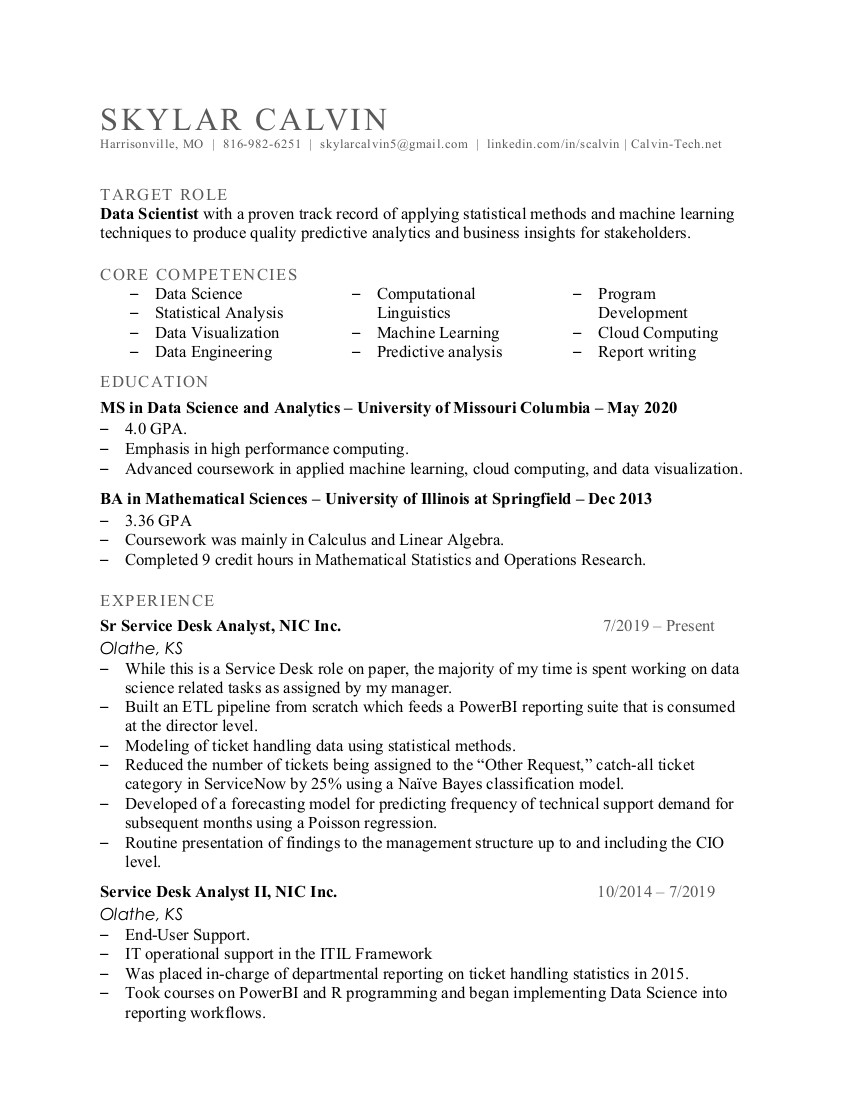
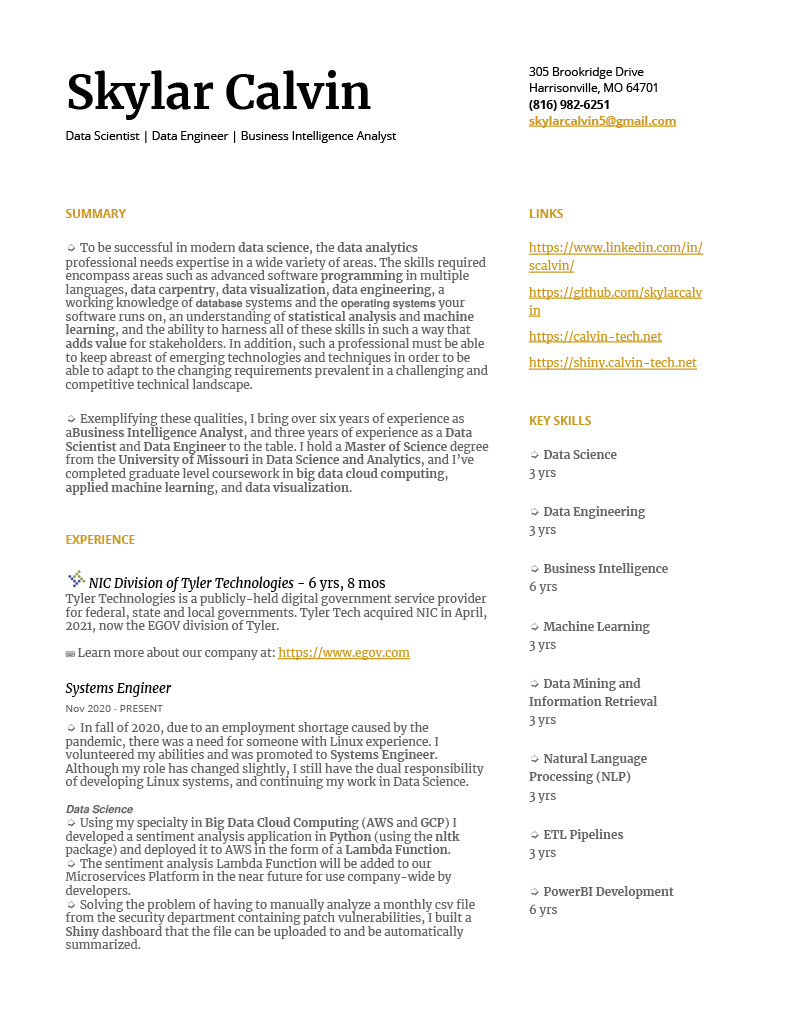
Updated Resume, About Me, and Career sections

Changed region(s): [[0.0606, 0.0625, 0.8788, 0.9375], [0.5758, 0.0625, 0.8485, 0.1562]]

diff --git a/calvinTech/templates/index.html b/calvinTech/templates/index.html
@@ -104,7 +104,23 @@
             <div class="col-lg-12 text-center">
               <img class="mx-auto rounded-circle" src="{% static "img/team/1.jpeg" %}" alt="">
               <h2 class="section-heading text-uppercase">About Me</h2>
-              <p class="text-muted">Skylar Calvin is a Senior Service Desk Analyst at NIC Inc. (NASDAQ: EGOV), a leading provider of government technology solutions. He is responsible for leading the Service Desk team in day to day operations and working support tickets at an escalated level. In addition to these responsibilities, he has also been able to use his background in Mathematics and Data Science to design and implement several custom Key Performance Indicators that have become crucial to the success of the Service Desk and the division to which it reports.<br> <br>Skylar received a Master of Science degree in Data Science and Analytics from the Institute for Data Science and Informatics at the University of Missouri Columbia. His emphasis area is in High Performance Computing and he has completed course work in applied machine learning, cloud computing, and advanced data visualization. His capstone project used a Poisson distribution to effectively predict hot spots of crime around Kansas City, MO, using historical crime data from the KCPD between 2016 and 2019, socioeconomic data from the US Census Bureau’s American Community Survey, weather pattern data from the National Oceanic and Atmospheric Administration, in addition to data from a number of other sources. Using the resulting model he was able to accurately project hot spots of certain crimes side by side with actual data, using data from 2019 for validation.<br> <br>Over the past three years, Skylar has been applying data science increasingly more in his day to day operations. In his current role at NIC Inc, he created an ETL pipeline used for cleaning and storing Service Desk ticket data from multiple sources in a centralized database. He then used this to design and deploy a PowerBI dashboard for visualizing KPIs. This dashboard has been used by managers and directors alike organization wide. Additionally, using his machine learning prowess, he applied Natural Language Processing and used some unsupervised machine learning to find patterns of the type of work being done by certain departments, using only the manually entered description fields in the tickets. He then used the resulting clusters to build a classification model to sort the tickets in the catch-all “Other” ticket category into groups. This has led to increased awareness by departmental management and to more efficient ticket handling by support team members.<br> <br>Overall, Skylar is a hard working, passionate data scientist with a keen attention to detail. His dominant character traits are confidence, persistence, and an intense level of curiosity. <br> <br></p>
+              <p class="text-muted">➭ To be successful in modern 𝗱𝗮𝘁𝗮 𝘀𝗰𝗶𝗲𝗻𝗰𝗲, the 𝗱𝗮𝘁𝗮 𝗮𝗻𝗮𝗹𝘆𝘁𝗶𝗰𝘀 professional needs expertise in a wide variety of areas. The skills required encompass areas such as advanced software 𝗽𝗿𝗼𝗴𝗿𝗮𝗺𝗺𝗶𝗻𝗴 in multiple languages, 𝗱𝗮𝘁𝗮 𝗰𝗮𝗿𝗽𝗲𝗻𝘁𝗿𝘆, 𝗱𝗮𝘁𝗮 𝘃𝗶𝘀𝘂𝗮𝗹𝗶𝘇𝗮𝘁𝗶𝗼𝗻, 𝗱𝗮𝘁𝗮 𝗲𝗻𝗴𝗶𝗻𝗲𝗲𝗿𝗶𝗻𝗴, a working knowledge of 𝗱𝗮𝘁𝗮𝗯𝗮𝘀𝗲 systems and the 𝗼𝗽𝗲𝗿𝗮𝘁𝗶𝗻𝗴 𝘀𝘆𝘀𝘁𝗲𝗺𝘀 your software runs on, and an understanding of 𝘀𝘁𝗮𝘁𝗶𝘀𝘁𝗶𝗰𝗮𝗹 𝗮𝗻𝗮𝗹𝘆𝘀𝗶𝘀 and 𝗺𝗮𝗰𝗵𝗶𝗻𝗲 𝗹𝗲𝗮𝗿𝗻𝗶𝗻𝗴, and the ability to harness all of these skills in such a way that 𝗮𝗱𝗱𝘀 𝘃𝗮𝗹𝘂𝗲 for stakeholders. In addition, such a professional must be able to keep abreast of emerging technologies and techniques in order to be able to adapt to the changing requirements prevalent in a challenging and competitive technical landscape.
+              </br></br>
+              ➭ Exemplifying these qualities, I bring over six years of experience as a 𝗕𝘂𝘀𝗶𝗻𝗲𝘀𝘀 𝗜𝗻𝘁𝗲𝗹𝗹𝗶𝗴𝗲𝗻𝗰𝗲 𝗔𝗻𝗮𝗹𝘆𝘀𝘁, and three years of experience as a 𝗗𝗮𝘁𝗮 𝗦𝗰𝗶𝗲𝗻𝘁𝗶𝘀𝘁 and 𝗗𝗮𝘁𝗮 𝗘𝗻𝗴𝗶𝗻𝗲𝗲𝗿 to the table. I hold a 𝗠𝗮𝘀𝘁𝗲𝗿 𝗼𝗳 𝗦𝗰𝗶𝗲𝗻𝗰𝗲 degree from the 𝗨𝗻𝗶𝘃𝗲𝗿𝘀𝗶𝘁𝘆 𝗼𝗳 𝗠𝗶𝘀𝘀𝗼𝘂𝗿𝗶 in 𝗗𝗮𝘁𝗮 𝗦𝗰𝗶𝗲𝗻𝗰𝗲 𝗮𝗻𝗱 𝗔𝗻𝗮𝗹𝘆𝘁𝗶𝗰𝘀, and I’ve completed graduate level coursework in 𝗯𝗶𝗴 𝗱𝗮𝘁𝗮 𝗰𝗹𝗼𝘂𝗱 𝗰𝗼𝗺𝗽𝘂𝘁𝗶𝗻𝗴, 𝗮𝗽𝗽𝗹𝗶𝗲𝗱 𝗺𝗮𝗰𝗵𝗶𝗻𝗲 𝗹𝗲𝗮𝗿𝗻𝗶𝗻𝗴, and 𝗱𝗮𝘁𝗮 𝘃𝗶𝘀𝘂𝗮𝗹𝗶𝘇𝗮𝘁𝗶𝗼𝗻.
+              </br></br>
+              ⁌ 𝗞𝗲𝘆 𝗦𝗸𝗶𝗹𝗹𝘀 ⁍</br>
+              ➭ Data Science</br>
+              ➭ Data Engineering</br>
+              ➭ Business Intelligence</br>
+              ➭ Machine Learning</br>
+              ➭ Data Mining and Information Retrieval</br>
+              ➭ Natural Language Processing (NLP)</br>
+              ➭ ETL Pipelines</br>
+              ➭ PowerBI Development</br>
+              ➭ Python Programming</br>
+              ➭ R Programming</br>
+              ➭ Statistical Analysis</br>
+              ➭ Leadership</br></br></p>
               <h2 class="section-heading text-uppercase">Core Competencies</h2>
             </div>
           </div>
@@ -431,10 +447,11 @@
                 <div class="timeline-image">
                   <img class="rounded-circle img-fluid" src="{% static "img/career/longview.jpg" %}" alt="">
                 </div>
-                <div class="timeline-panel">
+                <div class="timeline-panel" style="text-align:left;">
                   <div class="timeline-heading">
                     <h4>2007-2010</h4>
-                    <h4 class="subheading">Attended MCC - Longview</h4>
+                    <h4 class="subheading">Associate of Arts - Mathematics</h4>
+                    <h4>MCCKC - Longview</h4>
                   </div>
                   <div class="timeline-body">
                     <p class="text-muted">In 2010 I graduated with my Associate in Arts degree from Metropolitan Community College of Kansas City. The main campus I attended was MCC - Longview. The focus of my studies was in mathematics.</p>
@@ -445,56 +462,118 @@
                 <div class="timeline-image">
                   <img class="rounded-circle img-fluid" src="{% static "img/career/uis.jpg" %}" alt="">
                 </div>
-                <div class="timeline-panel">My professional background
+                <div class="timeline-panel">
                   <div class="timeline-heading">
                     <h4>2010 - 2013</h4>
-                    <h4 class="subheading">Attended the University of Illinois at Springfield</h4>
+                    <h4 class="subheading">Bachelor of Arts in Mathematical Sciences</h4>
+                    <h4>University of Illinois at Springfield</h4>
                   </div>
                   <div class="timeline-body">
-                    <p class="text-muted">In 2013 I earned my Bachelor of Arts degree in Mathematical Sciences online from the University of Illinois at Springfield. During my time there I achieved placement on the dean's list twice, once in Spring of 2012, and again in Spring of 2013. My cumulative GPA was 3.36.</p>
+                    <p class="text-muted">➭ 3.36 GPA, Deans List, Spring 2012, Spring 2013.</br>
+                      ➭ Coursework was mainly in Calculus and Linear Algebra.</br>
+                      ➭ Completed 9 credit hours in Mathematical Statistics and Operations Research.</p>
+                  </div>
+                </div> 
+              </li>
+              <li>
+                <div class='timeline-image'>
+                  <img class="rounded-circle img-fluid" src="{% static "img/career/nic2.jpg" %}" alt="">
+                </div>
+                <div class="timeline-panel" style="text-align:left;">
+                  <div class="timeline-heading">
+                    <h4>2014 - 2019</h4>
+                    <h4 class="subheading">Analyst II</h4>
+                    <h4>NIC Division of Tyler Technologies</h4>
+                  </div>
+                  <div class="timeline-body">
+                    <p class="text-muted">As an Analyst II my duties were split into two roles: Business Intelligence and Operational Support. In my Business Intelligence role, I participated in the gathering of operational data for our Customer Service Management (CSM) division, and directly impacted the creation of several critical Key Performance Indicators (KPIs) that are now used to gauge customer success. It was also during my time employed in this role that I began pursuing my masters degree in Data Science. I immediately began applying the knowledge I was learning in my job. It was also during my time employed in this role that I began pursuing my masters degree in Data Science. I immediately began applying the knowledge I was learning in my job.
+                    </br></br>
+                    𝘽𝙪𝙨𝙞𝙣𝙚𝙨𝙨 𝙄𝙣𝙩𝙚𝙡𝙡𝙞𝙜𝙚𝙣𝙘𝙚 𝘼𝙣𝙖𝙡𝙮𝙨𝙞𝙨</br>
+                    ➭ Harnessing the power of R (the programming language), I mined data from multiple sources and performed statistical analysis, exploratory data visualization to help develop several KPIs to gauge customer
+                    success.</br>
+                    ➭ Utilizing R, Microsoft Excel, and PowerPoint, I authored periodic reports for upper management.</br>
+                    ➭ Leveraging Microsoft PowerBI and Shiny I built dashboards to articulate various stories told by the data.</br>
+                    </br></br>
+                    𝙊𝙥𝙚𝙧𝙖𝙩𝙞𝙤𝙣𝙖𝙡 𝙎𝙪𝙥𝙥𝙤𝙧𝙩</br>
+                    ➭ When business services failed, I performed incident management in scope of the ITIL framework.</br>
+                    ➭ I provided technical support for over 1000 corporate users.</br>
+                    ➭ When issues needed to be escalated, I logged them into the ticketing systems for users.</p>
                   </div>
                 </div>
               </li>
-              <li>
+              <li class="timeline-inverted">
                 <div class="timeline-image">
                   <img class="rounded-circle img-fluid" src="{% static "img/career/mizzou.jpeg" %}" alt="">
                 </div>
                 <div class="timeline-panel">
                   <div class="timeline-heading">
                     <h4>2018 - 2020</h4>
-                    <h4 class="subheading">Attended the University of Missouri - Columbia</h4>
+                    <h4 class="subheading">Master of Science in Data Science and Analytics</h4>
+                    <h4 class="subheading">University of Missouri - Columbia</h4>
                   </div>
                   <div class="timeline-body">
-                    <p class="text-muted">In 2020 I earned my Master of Science degree in data science and analytics at the University of Missouri - Columbia. My emphasis area was in high performance computing, and as part of the program requirements I completed graduate leel coursework in data mining and information retrieval, applied machine learning, advanced data visualization, and cloudcomputing. Throughout the program I achieved straight As, and have a 4.0 GPA in all graduate level coursework.</p>
-                  </div>
-                </div>
-              </li>
-              <li class="timeline-inverted">
-                <div class='timeline-image'>
-                  <img class="rounded-circle img-fluid" src="{% static "img/career/nic2.jpg" %}" alt="">
-                </div>
-                <div class="timeline-panel">
-                  <div class="timeline-heading">
-                    <h4>2014 - Present</h4>
-                    <h4 class="subheading">Senior Service Desk Analyst at NIC Inc.</h4>
-                  </div>
-                  <div class="timeline-body">
-                    <p class="text-muted">While this is a Service Desk role on paper, the majority of my time is spent working on data
-                      science related tasks as assigned by my manager. I built an ETL pipeline from scratch which feeds a PowerBI reporting suite that is consumed at the director level. I also routinely model ticket handling data using statistical methods. For example, using a Naïve Bayes classification model I reduced the number of tickets being assigned to the “Other Request,” catch-all ticket category in ServiceNow by 25%. I also developed of a forecasting model for predicting frequency of technical support demand for subsequent months using a Poisson regression. I routinely present my findings to the management structure up to and including the CIO level.</p>
+                    <p class="text-muted">➭ 4.0 GPA.</br>
+                      ➭ Emphasis in high performance computing.</br>
+                      ➭ Advanced coursework in applied machine learning, cloud computing, and data visualization.</p>
                   </div>
                 </div>
               </li>
               <li>
                 <div class='timeline-image'>
+                  <img class="rounded-circle img-fluid" src="{% static "img/career/nic2.jpg" %}" alt="">
+                </div>
+                <div class="timeline-panel" style="text-align:left;">
+                  <div class="timeline-heading">
+                    <h4>2019 - 2020</h4>
+                    <h4 class="subheading">Senior Analyst</h4>
+                    <h4>NIC Division of Tyler Technologies</h4>
+                  </div>
+                  <div class="timeline-body">
+                    <p class="text-muted">In summer 2019 I was promoted to the position of Senior Analyst. This brought with it the added responsibility of leading a team of five other analysts. Additionally I continued my role as a Business Intelligence Analyst but also added Data Science and Data Engineering to my toolbox.
+                    </br></br>
+                    𝘿𝙖𝙩𝙖 𝙎𝙘𝙞𝙚𝙣𝙘𝙚</br>
+                    ➭ Using the nltk package in Python I developed a specialty for computational linguistics and text processing.</br>
+                    ➭ Employing packages such as sklearn, I began doing anomaly detection in the data and developing machine learning models.</br>
+                    ➭ To cut down on support ticket triage time, I developed a Naïve Bayes Classifier model that sorts catchall tickets into categories using manually entered text in the ticket.</br>
+                    ➭ To optimize departmental staffing hours, I developed a statistical model of engagement time of support interactions.</br>
+                    </br></br>
+                    𝘿𝙖𝙩𝙖 𝙀𝙣𝙜𝙞𝙣𝙚𝙚𝙧𝙞𝙣𝙜</br>
+                    ➭ Using Python (the programming language) I revolutionized the way we were gathering data.</br>
+                    ➭ Borrowing several popular Python packages (Pandas, SQLAlchemy, BeautifulSoup, PyMysql, and Flask) I built an ETL pipeline to combine data from four different ticketing systems and other sources into a centralized MySQL Database.
+                    /br></br>
+                    𝘽𝙪𝙨𝙞𝙣𝙚𝙨𝙨 𝙄𝙣𝙩𝙚𝙡𝙡𝙞𝙜𝙚𝙣𝙘𝙚 𝘼𝙣𝙖𝙡𝙮𝙨𝙞𝙨</br>
+                    ➭ Wielding my ETL pipeline efficiently, I connected it to PowerBI and produced a reporting suite of dashboards which replaced the old system of Excel spreadsheet reporting that was in use previously.</br>
+                    ➭ Using my improved data visualization skills, and the added functionality of R and Python visualizations in PowerBI I was able to create better and more insightful data visuals for management.</br>
+                    </br></br>
+                    𝙇𝙚𝙖𝙙𝙚𝙧𝙨𝙝𝙞𝙥</br>
+                    ➭ As the senior analyst on the team, I trained new analysts and mentored junior analysts.</br>
+                    ➭ On a routine basis, I made operational decisions impacting day to day operations of the team.</br>
+                    ➭ I also attended a Leadership Essentials course provided by the company.A</p>
+                  </div>
+                </div>
+              </li>
+              <li class="timeline-inverted">
+                <div class='timeline-image'>
                   <img class="rounded-circle img-fluid" src="{% static "img/career/nic.jpeg" %}" alt="">
                 </div>
                 <div class="timeline-panel">
                   <div class="timeline-heading">
-                    <h4>2020 - Present</h4>
-                    <h4 class="subheading">Freelance Data Scientist at Upwork.com.</h4>
+                    <h4 class="subheading">Systems Engineer</h4>
+                    <h4>NIC Division of Tyler Technologies</h4>
                   </div>
                   <div class="timeline-body">
-                    <p class="text-muted">Starting in July 2020, I began moonlighting as a Freelance Data Scientist on Upwork.com. I am now taking on mid-to-small sized projects to work on the side and I specialize in Data Analysis, Data Extraction, Data Visualization, Statistical Analysis, PowerBI Development, Natural Language Processing, and Machine Learning.</p>
+                    <p class="text-muted">In fall of 2020, due to an employment shortage caused by the pandemic, there was a need for someone with Linux experience. I volunteered my abilities and was promoted to Systems Engineer. Although my role has changed slightly, I still have the dual responsibility of developing Linux systems, and continuing my work in Data Science.
+                    </br></br>
+                    𝘿𝙖𝙩𝙖 𝙎𝙘𝙞𝙚𝙣𝙘𝙚</br>
+                    ➭ Using my specialty in Big Data Cloud Computing (AWS and GCP) I developed a sentiment analysis application in Python (using the nltk package) and deployed it to AWS in the form of a Lambda Function.</br>
+                    ➭ The sentiment analysis Lambda Function will be added to our Microservices Platform in the near future for use company-wide by developers.</br>
+                    ➭ Solving the problem of having to manually analyze a monthly csv file from the security department containing patch vulnerabilities, I built a Shiny dashboard that the file can be uploaded to and be automatically summarized.</br>
+                    </br></br>
+                    𝙇𝙞𝙣𝙪𝙭 𝙎𝙮𝙨𝙩𝙚𝙢𝙨 𝘼𝙙𝙢𝙞𝙣𝙨𝙩𝙧𝙖𝙩𝙞𝙤𝙣</br>
+                    ➭ Systems administration of over 1300 Linux Servers using bash scripting, Puppet, Ansible, AWX, and Spacewalk.</br>
+                    ➭ Experience using CentOS 7 and Ubuntu Linux.</br>
+                    ➭ Patch repo management using Spacewalk</br>
+                    ➭ User account administration in FreeIPA.</p>
                   </div>
                 </div>
               </li>
@@ -636,7 +715,7 @@
       <div class="container">
         <div class="row">
           <div class="col-md-4">
-            <span class="copyright">Copyright &copy; calvin-tech.net 2020</span>
+            <span class="copyright">Copyright &copy; calvin-tech.net 2021</span>
           </div>
           <div class="col-md-4">
             <ul class="list-inline social-buttons">
@@ -687,6 +766,7 @@
                   <p class="item-intro text-muted">A brief overview of my experience and qualifications.</p>
                   <img class="img-fluid d-block mx-auto" src="{% static "img/portfolio/resume1.jpg" %}" alt="">
                   <img class="img-fluid d-block mx-auto" src="{% static "img/portfolio/resume2.jpg" %}" alt="">
+                  <img class="img-fluid d-block mx-auto" src="{% static "img/portfolio/resume3.jpg" %}" alt="">
                   <button class="btn btn-primary" data-dismiss="modal" type="button">
                     <i class="fa fa-times"></i>
                     Close</button>

diff --git a/static-root/css/agency.css b/static-root/css/agency.css
@@ -817,7 +817,7 @@ header.masthead .intro-text .intro-heading {
 
 .timeline > li .timeline-panel {
   position: relative;
-  float: right;
+  float: left;
   width: 100%;
   padding: 0 20px 0 100px;
   text-align: left;
@@ -1094,7 +1094,6 @@ ul.social-buttons li a:active, ul.social-buttons li a:focus, ul.social-buttons l
 
 .iframe-container {
   overflow: hidden;
-  // Calculated from the aspect ration of the content (in case of 16:9 it is 9/16= 0.5625)
   padding-top: 56.25%;
   position: relative;
 }

diff --git a/calvinTech/templates/DS8660_Module4.html b/calvinTech/templates/DS8660_Module4.html
@@ -252,7 +252,7 @@
       <div class="container">
         <div class="row">
           <div class="col-md-4">
-            <span class="copyright">Copyright &copy; calvin-tech.net 2020</span>
+            <span class="copyright">Copyright &copy; calvin-tech.net 2021</span>
           </div>
           <div class="col-md-4">
             <ul class="list-inline social-buttons">

diff --git a/calvinTech/templates/Sentiment_Analyzer.html b/calvinTech/templates/Sentiment_Analyzer.html
@@ -113,7 +113,7 @@
       <div class="container">
         <div class="row">
           <div class="col-md-4">
-            <span class="copyright">Copyright &copy; calvin-tech.net 2020</span>
+            <span class="copyright">Copyright &copy; calvin-tech.net 2021</span>
           </div>
           <div class="col-md-4">
             <ul class="list-inline social-buttons">
